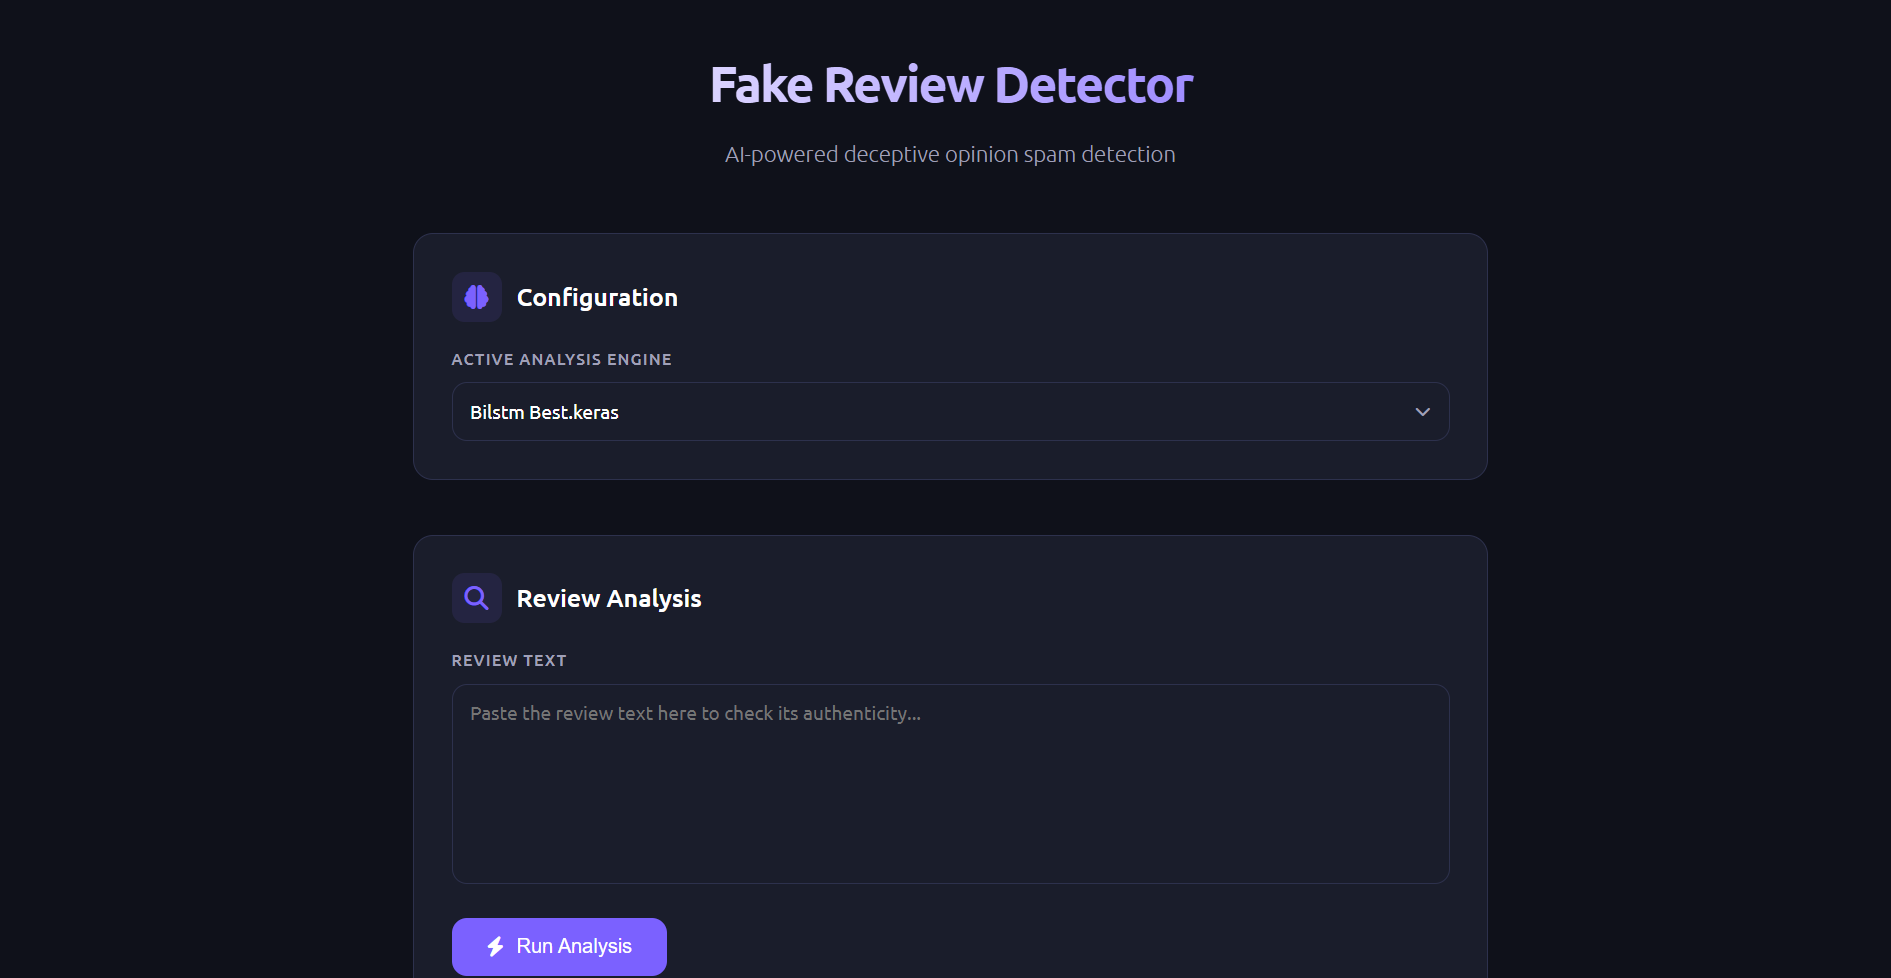
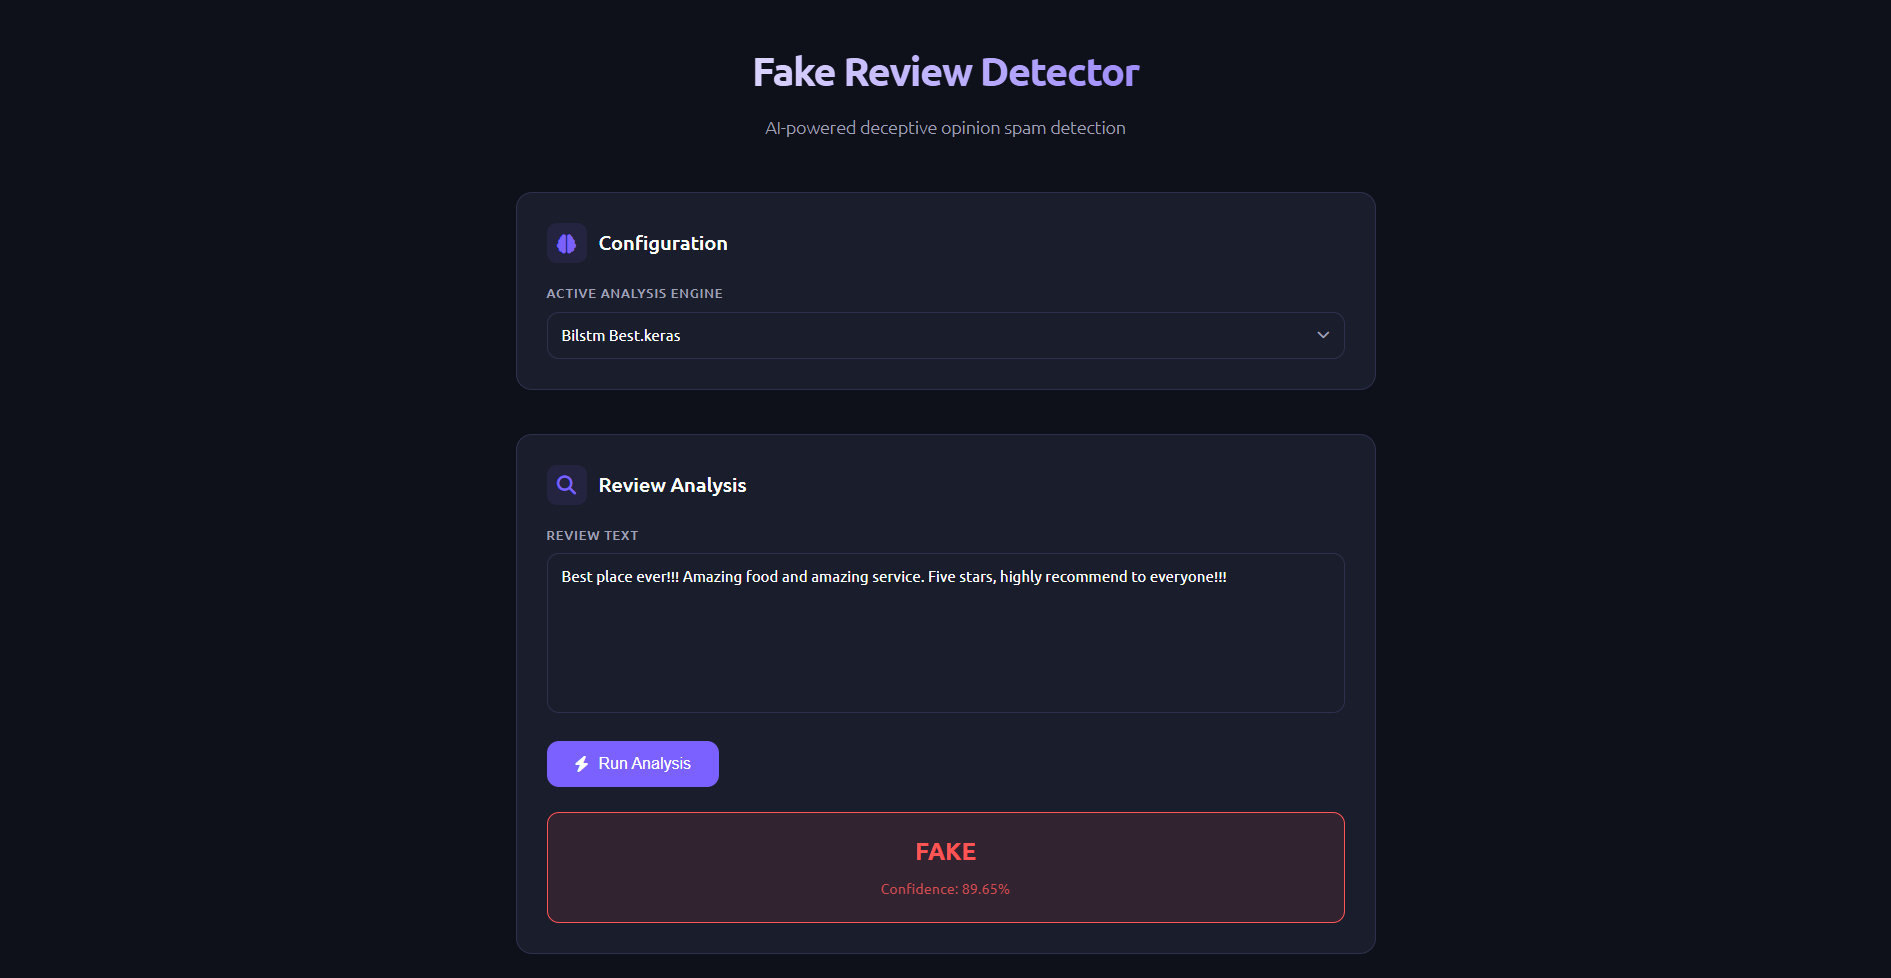
Polish project cards and add Demo/Code links to the projects page
- Homepage projects: replace "Languages:" with a "Tech:" label and
  pills, drop the "Description:" label, add category tags, make
  screenshots link to the demo or code, and fix "JavaScript" typos
- Turn "More Projects..." into a "View all projects" button
- Replace the Fake Review Detection screenshot with one showing a real
  Bi-LSTM prediction
- Projects page: add Demo and Code links to each row; the row's main
  link now prefers the live demo

diff --git a/index.html b/index.html
@@ -226,26 +226,46 @@
           <h2 class="projects-heading">PROJECTS</h2>
         </div>
         <article class="projects-container-0 reveal">
-          <div class="projects-container-2">
-            <img src="images/fake-review-detection.png" loading="lazy" alt="Fake Review Detector web app screenshot">
-          </div>
+          <a class="projects-container-2" href="https://github.com/da-ksh-esh/Fake-Review-Detection-System" target="_blank" rel="noopener noreferrer" aria-label="View the Fake Review Detection code on GitHub">
+            <img src="images/fake-review-detection.png" loading="lazy" alt="Fake Review Detector web app showing a prediction">
+          </a>
           <div class="projects-container-3">
+            <span class="project-category">Machine Learning</span>
             <h3>• Fake Review Detection</h3>
-            <p><span class="projects-container-span">Description:</span> An end-to-end machine learning and deep learning pipeline that detects fake reviews in the Yelp dataset, with a Flask web app for predictions.</p>
-            <p><span class="projects-container-span">Languages:</span> Python, scikit-learn, TensorFlow, NLTK, Flask</p>
+            <p>An end-to-end machine learning and deep learning pipeline that detects fake reviews in the Yelp dataset, with a Flask web app for predictions.</p>
+            <div class="project-tech-row">
+              <span class="projects-container-span">Tech:</span>
+              <ul class="project-tags">
+                <li class="project-tag">Python</li>
+                <li class="project-tag">scikit-learn</li>
+                <li class="project-tag">TensorFlow</li>
+                <li class="project-tag">NLTK</li>
+                <li class="project-tag">Flask</li>
+              </ul>
+            </div>
             <div class="project-links">
               <a href="https://github.com/da-ksh-esh/Fake-Review-Detection-System" target="_blank" rel="noopener noreferrer" class="project-btn secondary">View Code</a>
             </div>
           </div>
         </article>
         <article class="projects-container-1 reveal">
-          <div class="projects-container-2">
+          <a class="projects-container-2" href="https://cloudshare-cyof.onrender.com" target="_blank" rel="noopener noreferrer" aria-label="Open the CloudShare live demo">
             <img src="images/cloud-share.png" loading="lazy" alt="CloudShare Screenshot">
-          </div>
+          </a>
           <div class="projects-container-3">
+            <span class="project-category">Full-stack</span>
             <h3>• CloudShare</h3>
-            <p><span class="projects-container-span">Description:</span> A simple privacy-focused file sharing application designed for seamless cross-device synchronization without the need for traditional user accounts.</p>
-            <p><span class="projects-container-span">Languages:</span> HTML, CSS, Java Script, Flask, SQLite</p>
+            <p>A simple privacy-focused file sharing application designed for seamless cross-device synchronization without the need for traditional user accounts.</p>
+            <div class="project-tech-row">
+              <span class="projects-container-span">Tech:</span>
+              <ul class="project-tags">
+                <li class="project-tag">HTML</li>
+                <li class="project-tag">CSS</li>
+                <li class="project-tag">JavaScript</li>
+                <li class="project-tag">Flask</li>
+                <li class="project-tag">SQLite</li>
+              </ul>
+            </div>
             <div class="project-links">
               <a href="https://cloudshare-cyof.onrender.com" target="_blank" rel="noopener noreferrer" class="project-btn">Live Demo</a>
               <a href="https://github.com/da-ksh-esh/CloudShare" target="_blank" rel="noopener noreferrer" class="project-btn secondary">View Code</a>
@@ -253,13 +273,21 @@
           </div>
         </article>
         <article class="projects-container-0 reveal">
-          <div class="projects-container-2">
+          <a class="projects-container-2" href="https://da-ksh-esh.github.io/WeatherApp/" target="_blank" rel="noopener noreferrer" aria-label="Open the Weather WebApp live demo">
             <img src="images/WeatherAppIMG.webp" loading="lazy" alt="Weather WebApp Screenshot">
-          </div>
+          </a>
           <div class="projects-container-3">
+            <span class="project-category">Frontend</span>
             <h3>• Weather WebApp</h3>
-            <p><span class="projects-container-span">Description:</span> A minimalistic Weather Webapp, with basic functionalities like current temperature, humidity and wind speed.</p>
-            <p><span class="projects-container-span">Languages:</span> HTML, CSS, Javascript</p>
+            <p>A minimalistic Weather Webapp, with basic functionalities like current temperature, humidity and wind speed.</p>
+            <div class="project-tech-row">
+              <span class="projects-container-span">Tech:</span>
+              <ul class="project-tags">
+                <li class="project-tag">HTML</li>
+                <li class="project-tag">CSS</li>
+                <li class="project-tag">JavaScript</li>
+              </ul>
+            </div>
             <div class="project-links">
               <a href="https://da-ksh-esh.github.io/WeatherApp/" target="_blank" rel="noopener noreferrer" class="project-btn">Live Demo</a>
               <a href="https://github.com/da-ksh-esh/WeatherApp" target="_blank" rel="noopener noreferrer" class="project-btn secondary">View Code</a>
@@ -267,8 +295,8 @@
           </div>
         </article>
         <div class="more-projects reveal">
-          <h3><a href="projects.html">More Projects...</a></h3>
-        </div> 
+          <a href="projects.html" class="project-btn secondary">View all projects <i class="fa-solid fa-arrow-right" aria-hidden="true"></i></a>
+        </div>
       </section> 
       <section id="certifications-section" class="main-certifications">
         <div class="certifications-container reveal">

diff --git a/projects.html b/projects.html
@@ -45,32 +45,47 @@
         <h1 class="reveal-heading">PROJECTS</h1>
         <ul class="project-reveal-list">
             <li class="project-reveal-item" data-bg="bg-cloudshare">
-                <a href="https://github.com/da-ksh-esh/CloudShare" target="_blank" rel="noopener noreferrer">
+                <div class="project-row">
                     <span class="project-number">01</span>
-                    <h3 class="project-title">CloudShare</h3>
+                    <h3 class="project-title"><a href="https://cloudshare-cyof.onrender.com" target="_blank" rel="noopener noreferrer">CloudShare</a></h3>
                     <span class="project-tech">Flask / JavaScript</span>
-                </a>
+                    <div class="project-row-links">
+                        <a href="https://cloudshare-cyof.onrender.com" target="_blank" rel="noopener noreferrer" aria-label="CloudShare live demo">Demo</a>
+                        <a href="https://github.com/da-ksh-esh/CloudShare" target="_blank" rel="noopener noreferrer" aria-label="CloudShare code on GitHub">Code</a>
+                    </div>
+                </div>
             </li>
             <li class="project-reveal-item" data-bg="bg-fakereview">
-                <a href="https://github.com/da-ksh-esh/Fake-Review-Detection-System" target="_blank" rel="noopener noreferrer">
+                <div class="project-row">
                     <span class="project-number">02</span>
-                    <h3 class="project-title">Fake Review Detection</h3>
+                    <h3 class="project-title"><a href="https://github.com/da-ksh-esh/Fake-Review-Detection-System" target="_blank" rel="noopener noreferrer">Fake Review Detection</a></h3>
                     <span class="project-tech">ML / Python</span>
-                </a>
+                    <div class="project-row-links">
+                        <a href="https://github.com/da-ksh-esh/Fake-Review-Detection-System" target="_blank" rel="noopener noreferrer" aria-label="Fake Review Detection code on GitHub">Code</a>
+                    </div>
+                </div>
             </li>
             <li class="project-reveal-item" data-bg="bg-weather">
-                <a href="https://da-ksh-esh.github.io/WeatherApp/" target="_blank" rel="noopener noreferrer">
+                <div class="project-row">
                     <span class="project-number">03</span>
-                    <h3 class="project-title">Weather WebApp</h3>
+                    <h3 class="project-title"><a href="https://da-ksh-esh.github.io/WeatherApp/" target="_blank" rel="noopener noreferrer">Weather WebApp</a></h3>
                     <span class="project-tech">HTML / CSS / JS</span>
-                </a>
+                    <div class="project-row-links">
+                        <a href="https://da-ksh-esh.github.io/WeatherApp/" target="_blank" rel="noopener noreferrer" aria-label="Weather WebApp live demo">Demo</a>
+                        <a href="https://github.com/da-ksh-esh/WeatherApp" target="_blank" rel="noopener noreferrer" aria-label="Weather WebApp code on GitHub">Code</a>
+                    </div>
+                </div>
             </li>
             <li class="project-reveal-item" data-bg="bg-amazon">
-                <a href="https://da-ksh-esh.github.io/Amazon-Clone/" target="_blank" rel="noopener noreferrer">
+                <div class="project-row">
                     <span class="project-number">04</span>
-                    <h3 class="project-title">Amazon Clone</h3>
+                    <h3 class="project-title"><a href="https://da-ksh-esh.github.io/Amazon-Clone/" target="_blank" rel="noopener noreferrer">Amazon Clone</a></h3>
                     <span class="project-tech">HTML / CSS</span>
-                </a>
+                    <div class="project-row-links">
+                        <a href="https://da-ksh-esh.github.io/Amazon-Clone/" target="_blank" rel="noopener noreferrer" aria-label="Amazon Clone live demo">Demo</a>
+                        <a href="https://github.com/da-ksh-esh/Amazon-Clone" target="_blank" rel="noopener noreferrer" aria-label="Amazon Clone code on GitHub">Code</a>
+                    </div>
+                </div>
             </li>
         </ul>
     </main>

diff --git a/index.css b/index.css
@@ -615,7 +615,7 @@ header:not(.backToMain) {
   margin-top: 14px;
 }
 
-.hero-actions .project-btn i {
+.project-btn i {
   font-size: 11px;
   margin-left: 4px;
 }
@@ -856,7 +856,7 @@ header:not(.backToMain) {
 }
 
 .projects-container-span {
-  font-size: 18px;
+  font-size: 16px;
   color: var(--accent-color);
 }
 
@@ -910,23 +910,54 @@ header:not(.backToMain) {
   color: var(--text-color);
 }
 
-.more-projects {
-  font-family: ubuntu;
-  font-size: 14px;
-  text-align: center;
-}
-
-.more-projects a {
-  text-decoration: none;
-  transition: color 0.3s ease-in-out, transform 0.3s ease-in-out;
-  color: var(--text-color);
-  display: inline-block;
-}
-
-.more-projects a:hover {
+/* Category label above the project title, e.g. "Machine Learning" */
+.project-category {
+  align-self: flex-start;
+  margin-bottom: 10px;
+  padding: 4px 12px;
+  border-radius: 20px;
+  border: 1px solid var(--accent-color);
+  background: var(--rail-accent-soft);
   color: var(--accent-color);
-  text-shadow: 0 0 8px var(--accent-color);
-  transform: scale(1.1);
+  font-family: monospace;
+  font-size: 12px;
+  letter-spacing: 0.5px;
+}
+
+/* "Tech:" label followed by one pill per technology */
+.project-tech-row {
+  display: flex;
+  flex-wrap: wrap;
+  align-items: center;
+  gap: 8px;
+  margin-top: 12px;
+}
+
+.project-tags {
+  display: flex;
+  flex-wrap: wrap;
+  gap: 8px;
+  list-style: none;
+}
+
+.project-tag {
+  padding: 4px 12px;
+  border-radius: 20px;
+  border: 1px solid rgba(255, 255, 255, 0.1);
+  background: rgba(255, 255, 255, 0.05);
+  color: var(--text-color);
+  font-family: monospace;
+  font-size: 12px;
+}
+
+.light-mode .project-tag {
+  border-color: rgba(0, 0, 0, 0.1);
+  background: rgba(0, 0, 0, 0.05);
+}
+
+.more-projects {
+  display: flex;
+  justify-content: center;
 }
 
 .contact-container {
@@ -1212,6 +1243,15 @@ header:not(.backToMain) {
     width: 90%;
     align-items: center;
     text-align: center;
+  }
+
+  .project-category {
+    align-self: center;
+  }
+
+  .project-tech-row,
+  .project-tags {
+    justify-content: center;
   }
 
 }

diff --git a/projects.css b/projects.css
@@ -96,19 +96,63 @@ body {
     border-top: 1px solid rgba(0, 0, 0, 0.1);
 }
 
-.project-reveal-item a {
+.project-row {
     display: flex;
     align-items: center;
     padding: 40px 20px;
-    text-decoration: none;
     color: var(--text-color);
     transition: all 0.4s ease;
     position: relative;
 }
 
-.project-reveal-item:hover a,
-.project-reveal-item:focus-within a {
+.project-reveal-item:hover .project-row,
+.project-reveal-item:focus-within .project-row {
     padding-left: 40px;
+}
+
+/* The title link stretches over the whole row, so clicking anywhere on it
+   opens the project; the Demo/Code links sit above it. */
+.project-title a {
+    color: inherit;
+    text-decoration: none;
+}
+
+.project-title a::after {
+    content: "";
+    position: absolute;
+    inset: 0;
+}
+
+.project-row-links {
+    position: relative;
+    z-index: 1;
+    display: flex;
+    gap: 10px;
+    margin-left: 30px;
+}
+
+.project-row-links a {
+    padding: 6px 14px;
+    border-radius: 20px;
+    border: 1px solid rgba(255, 255, 255, 0.25);
+    color: var(--text-color);
+    font-family: monospace;
+    font-size: 0.8rem;
+    letter-spacing: 1px;
+    text-decoration: none;
+    text-transform: uppercase;
+    transition: color 0.3s ease, border-color 0.3s ease, background 0.3s ease;
+}
+
+.light-mode .project-row-links a {
+    border-color: rgba(0, 0, 0, 0.25);
+}
+
+.project-row-links a:hover,
+.project-row-links a:focus-visible {
+    color: var(--accent-color);
+    border-color: var(--accent-color);
+    background: var(--rail-accent-soft);
 }
 
 .project-number {
@@ -191,8 +235,17 @@ body {
         font-size: 1.8rem;
     }
 
-    .project-reveal-item a {
+    /* Two columns: number | title, with the links on a second line under the title */
+    .project-row {
+        display: grid;
+        grid-template-columns: auto 1fr;
+        align-items: baseline;
         padding: 30px 10px;
+    }
+
+    .project-row-links {
+        grid-column: 2;
+        margin: 12px 0 0;
     }
 
     .project-tech {
